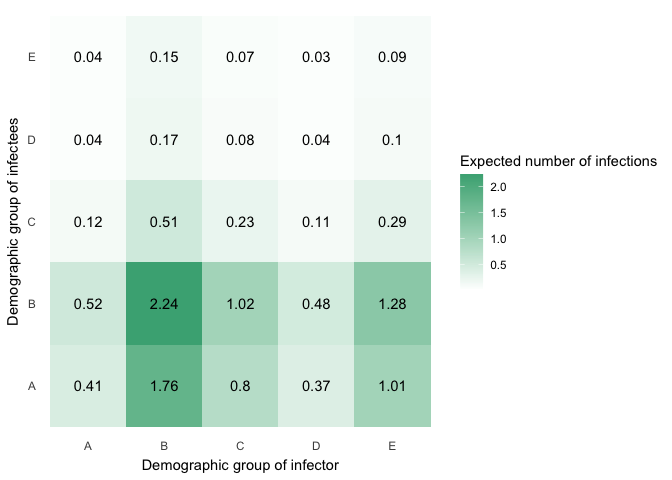
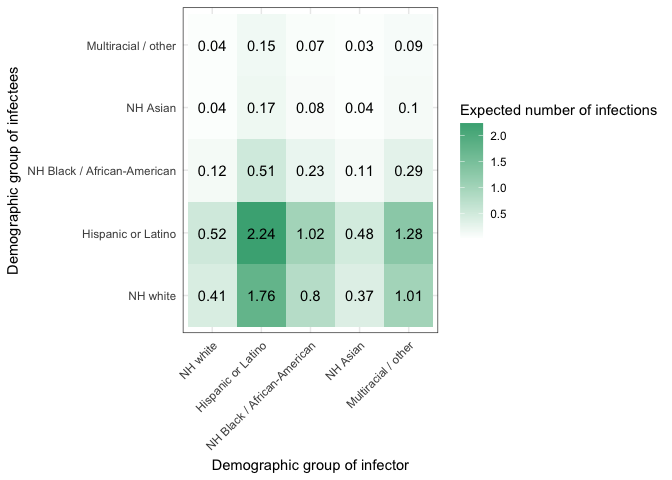
minor rearrangement

diff --git a/day-2-heterogeneiety-breakout.md b/day-2-heterogeneiety-breakout.md
@@ -1,7 +1,6 @@
 R code for SISMID 2021 Day 2 Heterogeneity and Herd Immunity Breakout
 Session
 ================
-12/3/2020
 
 Minor Modifications: 2021/07/08
 
@@ -14,39 +13,56 @@ library(RColorBrewer)
 library(reshape2)
 ```
 
-## (1) Set parameters to the SEIR model
+## Example Dataset (input)
+
+Seroprevalence data are from [Rosenberg et al. 2020]() Table 2 and
+population census data are from 2018 ACS 1-year estimates Table B03002
+Split the population into 5 demographic groups: non-Hispanic white,
+Hispanic or Latino, non-Hispanic Black / African-American, NH Asian,
+multiracial / other
+
+-   `pop.loc` = total population at given location
+-   `pop.p.loc` = fraction of each population belonging to each
+    demographic group from census data; proportion for “other” group is
+    given by 1 minus sum of all other groups
+-   `sero.p.loc` = adjusted cumulative incidence at given location for
+    each demographic group
+-   `sero.tested.loc` = number of people tested at given location for
+    each demographic group
 
 ``` r
-g.parm = 1/4          # Mean infectious period of 4 days
-r.parm = 1/3          # Mean latent period of 3 days
-default.R0 = 3.0      # All analyses will be run assuming an R0 of 3
-
-# Seroprevalence data are from Rosenberg et al. 2020 Table 2 and population census data are from 2018 ACS 1-year estimates Table B03002
-# Ordering of vectors: non-Hispanic white, Hispanic or Latino, non-Hispanic Black / African-American, NH Asian, multiracial / other
-
-# pop.loc = total population at given location
-# pop.p.loc = fraction of each population belonging to each demographic group from census data; proportion for "other" group is given by 1 minus sum of all other groups
-# sero.p.loc = adjusted cumulative incidence at given location for each demographic group
-# sero.tested.loc = number of people tested at given location for each demographic group 
-
+# Could also read this in from external file
 pop.nyc <- 8398748
-pop.p.nyc <- c(0.319, 0.292, 0.217, 0.141, 0.032)
-sero.p.nyc <- c(0.166, 0.330, 0.252, 0.145, 0.204)
-sero.tested.nyc <- c(1758, 2103, 1392, 509, 184)
+pop.p.nyc <- c(0.319, 0.292, 0.217, 0.141, 0.032)    #<= JC: percentages, or does it make sense to enter full values? and calculate population nyc? Probably from consensus data...load in next three columns as text/excel
+sero.tested.nyc <- c(1758, 2103, 1392, 509, 184)     #<= total tested (contains positive and negative)
+sero.p.nyc <- c(0.166, 0.330, 0.252, 0.145, 0.204)   #<= percentage of tested that were sero positive (might be easier to report total numbers)
 # Example: There are 8398748 people in NYC, of which 31.9% are non-Hispanic white. In the serosurvey, Rosenberg et al. tested 1758 non-Hispanic whites from NYC, of which 16.6% were seropositive (have SARS-CoV-2 antibodies, indicating they were infected at some point in the past).
 pop.li <- 2839436
 pop.p.li <- c(0.632, 0.186, 0.093, 0.068, 0.022)
-sero.p.li <- c(0.087, 0.320, 0.158, 0.084, 0.207)
 sero.tested.li <- c(1599, 301, 111, 50, 50)
+sero.p.li <- c(0.087, 0.320, 0.158, 0.084, 0.207)
 ```
 
-Define the SEIR model. SEIR model with variable exposure for each
-demographic group via social mixing matrix; also allows for varying
+Note: Could define states and transitions (similar to an HMM).
+
+## Define the modified SEIR model and parameters
+
+The basic SEIR (Susceptible-Exposed-Infectious-Removed) model and
+transitions rates for each timestep are defined below:
+
+<img src="https://raw.githubusercontent.com/j23414/sismid-2021-modeling-breakout/main/imgs/SEIR.png" width="500"/>
+
+Since we are splitting groups by demographic, each demographic will have
+its own SEIR infectious states. Mixing/exposure between demographics are
+defined by an `epsilon` parameter. SEIR model with variable exposure for
+each demographic group via social mixing matrix; also allows for varying
 degrees of assortativity.
 
-![](imgs/SEIR.png)
-
 ``` r
+# Define transition rates between states (gamma, rho)
+g.parm = 1/4          # Mean infectious period of 4 days
+r.parm = 1/3          # Mean latent period of 3 days
+default.R0 = 3.0      # All analyses will be run assuming an R0 of 3
 # epsilon = 0 gives proportionate mixing and epsilon = 1 gives fully assortative mixing
 
 exposure.SEIR <- function(t, x, parms){           # Set up function with three arguments         
@@ -104,17 +120,22 @@ rescale.R0 <- function(beta, g.parm, pop.p, N, R0.value, ngm.plot=TRUE) {
         d <- ggplot(plot.NGM, aes(Var2, Var1)) +                  # Geom_tile produces nice 2D tiled rectangle plots
             geom_tile(aes(fill = value)) +
             geom_text(aes(label = round(value, 2))) +
-            scale_x_discrete(labels = c('A','B','C','D','E')) +
-            scale_y_discrete(labels = c('A','B','C','D','E')) +
-            xlab('Demographic group of infector') +
-            ylab('Demographic group of infectees') +
-            labs(fill='Expected number of infections') + 
-            scale_fill_gradient2(high='#47ad83') +
-            theme(panel.background=element_rect(fill="white"),
-                axis.ticks.x=element_blank(),
-                axis.ticks.y=element_blank(),
-                axis.title.y=element_text(margin = margin(t = 0, r = 5, b = 0, l = 0)),
-                axis.title.x=element_text(margin = margin(t = 5, r = 0, b = 0, l = 0)))
+            scale_x_discrete(labels=c('NH white', 'Hispanic or Latino', 'NH Black / African-American', 'NH Asian', 'Multiracial / other')) +
+            scale_y_discrete(labels=c('NH white', 'Hispanic or Latino', 'NH Black / African-American', 'NH Asian', 'Multiracial / other')) +
+#            scale_x_discrete(labels = c('A','B','C','D','E')) +
+#            scale_y_discrete(labels = c('A','B','C','D','E')) +
+            labs(
+              fill='Expected number of infections',
+              x='Demographic group of infector',
+              y='Demographic group of infectees') +
+          scale_fill_gradient2(high='#47ad83') +
+          theme_bw() +
+            theme(
+#              panel.background=element_rect(fill="white"),
+              axis.ticks = element_blank(),
+              axis.text.x = element_text(angle=45, hjust=1),
+              axis.title.y=element_text(margin = margin(t = 0, r = 5, b = 0, l = 0)),
+              axis.title.x=element_text(margin = margin(t = 5, r = 0, b = 0, l = 0)))
         print(d)
         ggsave('model-ngm.png', width=6.5, height=3, dpi=300)
     }
@@ -173,7 +194,12 @@ run.structured.model <- function(R0.value, pop, pop.p, g.parm, fitted.vars, mode
             select(matches('S|time')) %>%
             rowwise() %>% 
             mutate(p.nonsuscep = 1-sum(c(S0, S1, S2, S3, S4))/N) %>%
-            mutate(HIT0 = 1-S0/N0, HIT1 = 1-S1/N1, HIT2 = 1-S2/N2, HIT3 = 1-S3/N3, HIT4 = 1-S4/N4) %>%
+            mutate(
+              HIT0 = 1-S0/N0, 
+              HIT1 = 1-S1/N1, 
+              HIT2 = 1-S2/N2, 
+              HIT3 = 1-S3/N3, 
+              HIT4 = 1-S4/N4) %>%
             mutate(Rt = as.numeric(eigen(c(S0, S1, S2, S3, S4)*
                                          scale.beta/scaling.factor/g.parm)$values[1])) %>%
             ungroup()
@@ -189,7 +215,12 @@ run.structured.model <- function(R0.value, pop, pop.p, g.parm, fitted.vars, mode
         # Normalize cumulative incidence
         plotdat <- simulation %>% 
             select(matches('R|time')) %>%
-            mutate(R0 = R0/N0, R1 = R1/N1, R2 = R2/N2, R3 = R3/N3, R4 = R4/N4) %>%
+            mutate(
+              R0 = R0/N0, 
+              R1 = R1/N1, 
+              R2 = R2/N2, 
+              R3 = R3/N3, 
+              R4 = R4/N4) %>%
             pivot_longer(-one_of(c('time')), names_to='Compartment', values_to='N')
         ylabel <- 'Proportion recovered'
     
@@ -298,8 +329,9 @@ fit.model <- function(pop, pop.p, sero.p, sero.tested, r.parm, g.parm, epsilon=0
 }
 ```
 
+## Proportionate mixing
+
 ``` r
-### Proportionate mixing
 # epsilon = 0 runs a proportionate mixing model
 
 # Fit the activity levels using maximum likelihood
@@ -341,6 +373,8 @@ print(results.pmix.li)
 # ... C denotes non-Hispanic African-Americans, D denotes non-Hispanic Asians, 
 # ... and E denotes multiracial or other demographic groups.
 ```
+
+## Assortative mixing
 
 ``` r
 ### Assortative mixing
